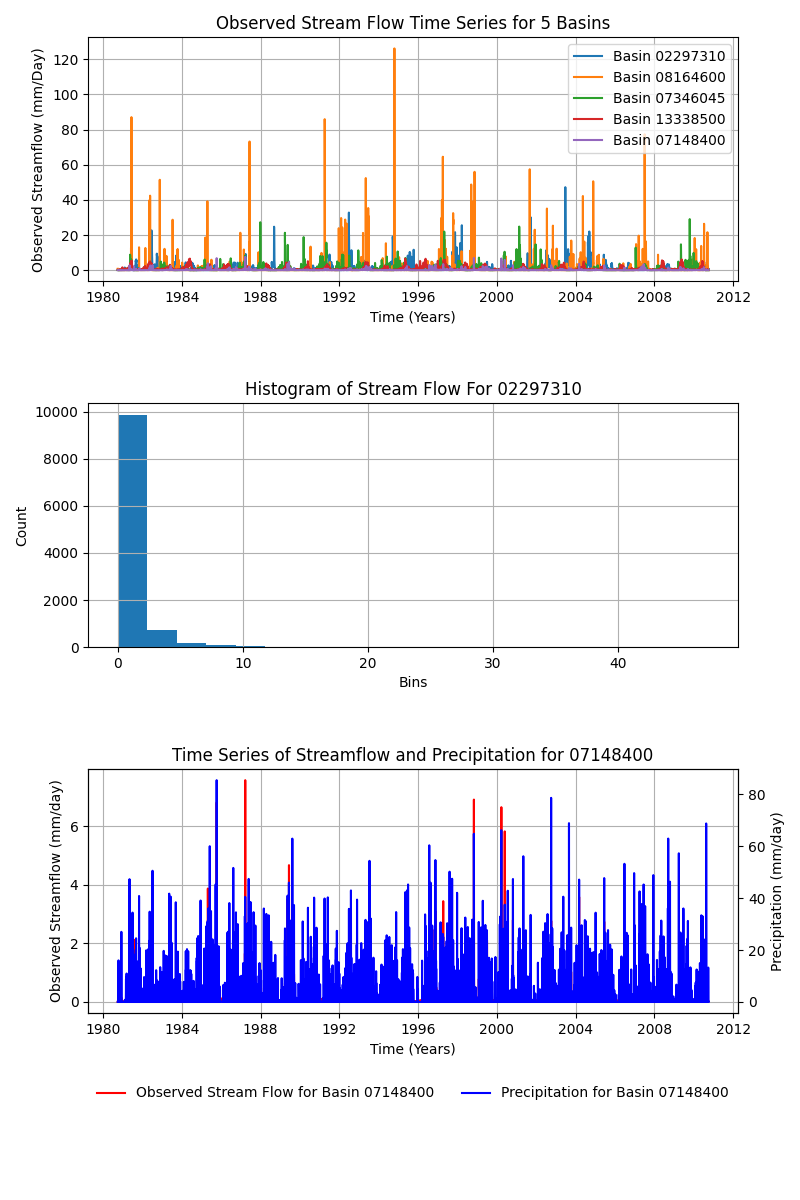
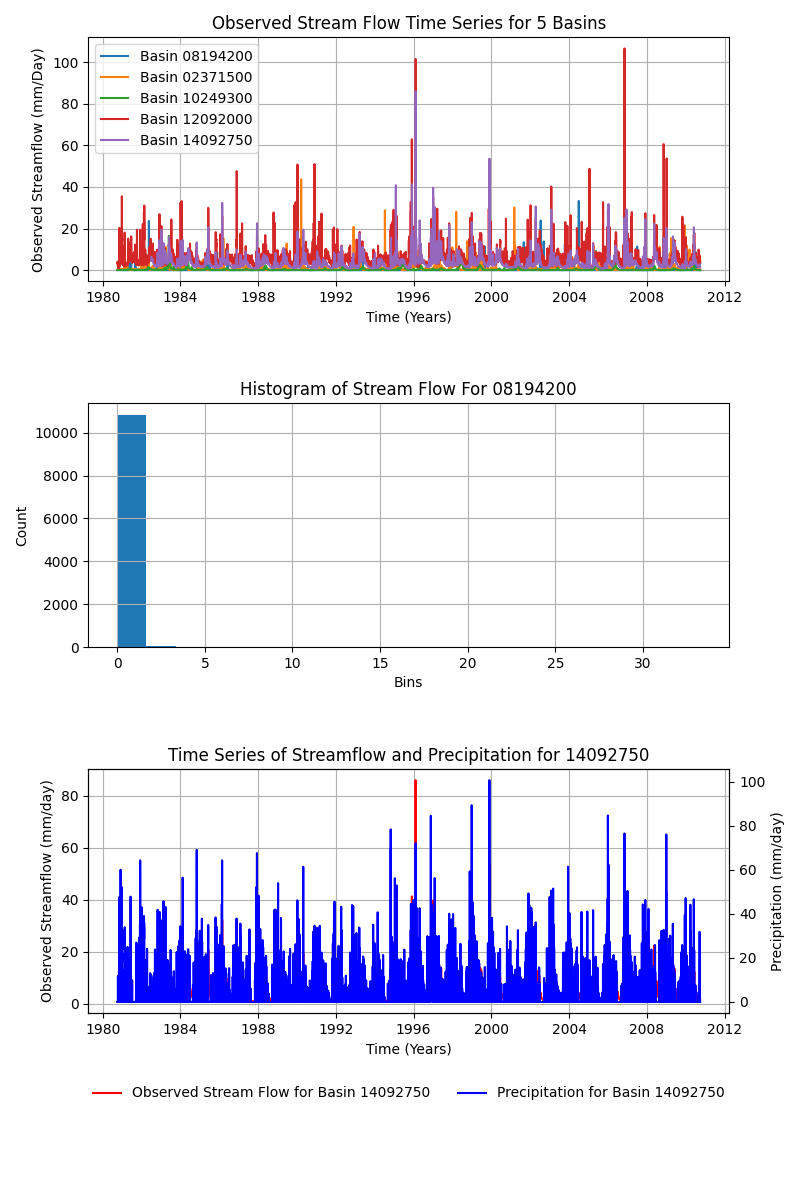
Added Config saving.

diff --git a/source/train.py b/source/train.py
@@ -89,16 +89,29 @@ def run_single_epoch(model, loader, criterion, optimizer=None, device='cpu'):
     return epoch_loss, epoch_nse
 
 
-def save_check(model, optimizer, epoch, train_loss, val_loss, path):
+def save_check(model, optimizer, epoch, train_loss, val_loss, path, config):
     checkpoint = {
         "epoch": epoch,
         "model_state_dict": model.state_dict(),
         "optimizer_state_dict": optimizer.state_dict(),
         "train_loss": train_loss,
         "val_loss": val_loss,
+        "config": config,
     }
 
     torch.save(checkpoint, path)
+
+
+def load_previous_best_val_loss(best_model_path):
+    if not best_model_path.exists():
+        return float("inf")
+
+    checkpoint = torch.load(best_model_path, map_location="cpu")
+
+    if "val_loss" in checkpoint:
+        return checkpoint["val_loss"]
+
+    return float("inf")
 
 
 def train_model(file_path,
@@ -155,6 +168,7 @@ def train_model(file_path,
         "val_loss": [],
         "train_nse": [],
         "val_nse": [],
+        "config": ""
     }
 
     best_val_loss = float("inf")
@@ -185,6 +199,10 @@ def train_model(file_path,
 
     for epoch in range(1, epochs + 1):
         # Training component
+
+        best_val_loss = load_previous_best_val_loss(best_model_path)
+        click.echo(f"Previous best validation loss: {best_val_loss:.6f}")
+
         click.echo(f"Starting Epoch {epoch}")
         train_loss, train_nse = run_single_epoch(
             model=lstm_model,
@@ -211,15 +229,38 @@ def train_model(file_path,
         # Report the loss values while looping
 
         click.echo(f"Epoch: {epoch}/{epochs} | Train MSE: {train_loss} | Val MSE: {val_loss}")
+        config = {
+            "file_path": str(file_path),
+            "output_dir": str(output_dir),
+            "seq_len": seq_len,
+            "horizon": horizon,
+            "batch_size": batch_size,
+            "learning_rate": learning_rate,
+            "epochs": epochs,
+            "hidden_size": hidden_size,
+            "num_layers": num_layers,
+            "dropout": dropout,
+            "target_var": target_var,
+            "input_vars": input_vars,
+            "seed": seed,
+            "checkpoint_name": checkpoint_name,
+            "nse_interval": nse_interval,
+        }
+        history["config"] = config
+
         if (epoch % nse_interval) == 0 or (epoch == epochs):
             click.echo(f"Train NSE: {train_nse} | Val NSE: {val_nse}")
         click.echo("-" * 20)
         # Best model checkpointing
         if val_loss < best_val_loss:
             best_val_loss = val_loss
-            save_check(lstm_model, optimizer, epoch, train_loss, val_loss, best_model_path)
+            save_check(lstm_model, optimizer, epoch, train_loss, val_loss, best_model_path, config)
             click.echo("-" * 20)
             click.echo(f"Saved new best model to: {best_model_path}")
+        else:
+            click.echo("Current model did not improve over saved best model.")
+            run_checkpoint_path = output_dir / f"run_seq{seq_len}_hidden{hidden_size}_layers{num_layers}_lr{learning_rate}.pt"
+            save_check(lstm_model, optimizer, epoch, train_loss, val_loss, run_checkpoint_path, config)
 
 
         # Last check point saving

diff --git a/source/main.py b/source/main.py
@@ -1,5 +1,5 @@
 from pathlib import Path
-import click
+import click, shutil
 
 # Commands from source files
 import data, model, train, validation, plotting, utils640
@@ -20,6 +20,13 @@ def CLI() -> None:
               default=DEFAULT_DATA_DIR, help="File path to the MiniCamels data file. Defaults to provided data folder.", show_default=True)
 def summarize_data(structure: bool, file_path: str) -> None:
     click.echo("-" * 20)
+    if file_path != DEFAULT_DATA_DIR:
+        click.echo(f"You have selected a separate MiniCamels data file location at {file_path}")
+        click.echo("If you encounter issues leave this field blank and the CLI will use the default data provided with this CLI.")
+        click.echo("The default data contained in this CLI is the same MiniCamels data files as of: 04/24/2026")
+        click.echo("-"*20)
+
+
     if structure:
         utils640.data_structure(file_path)
     else:
@@ -145,10 +152,9 @@ def evaluate(
 
 
 @CLI.command("plot", help="Plot a given file, if none given plot best LSTM results")
-@click.option("--file-name", default="best_LSTM.pt", show_default=True, help="File name of the model to plot, from outputs folder")
 @click.option("--explore", is_flag=True, help="Flag to display the exploration plots")
 @click.option("--history-plot", is_flag=True, help="Flag to display a training history plot, or just the latest training run plots.")
-def plot(file_name: str, explore:bool, history_plot:bool) -> None:
+def plot(explore:bool, history_plot:bool) -> None:
     click.echo("-"*20)
     if explore:
         typ = click.prompt("Number of Stream Flow Time Series Plots To Make", default = 5, show_default=True)
@@ -163,9 +169,6 @@ def plot(file_name: str, explore:bool, history_plot:bool) -> None:
         sv = click.prompt("History File Name to Plot, leave blank for default", default="training_history.json", show_default=True)
         histpath = DEFAULT_OUTPUT_DIR / "training_results" / sv
         plotting.run_saved_plots(histpath)
-    else:
-        click.echo("-"*20)
-        click.echo(f"Plotting {file_name}...")
 
     click.echo("-"*20)
     return

diff --git a/source/data.py b/source/data.py
@@ -295,7 +295,10 @@ def make_dataloaders(train_ds, val_ds,test_ds, input_vars=None, target_var="qobs
 
 
 def load_basin_data(file_path):
-    dt = mc.MiniCamels(file_path)
+    if file_path is None:
+        dt = mc.MiniCamels()
+    else:
+        dt = mc.MiniCamels(file_path)
 
     basin_indexes = dt.basins()
 

diff --git a/README.md b/README.md
@@ -1,2 +1,94 @@
-# HWRS640_HW4
-New repo to implement a LSTM-based hydrologic streamflow model.
+# HWRS640_HW4 Created By: Roz Roberts IV
+The HWRS640_HW4 Repo implements an LSTM model on observed streamflow from the CAMELS database by using MiniCamels.
+
+The LSTM model is implemented through the Python library CLICK as a CLI interface system.
+
+The different flags for this CLI are listed bellow and what they do, as well as an example snippet showcasing how
+to use this library.
+
+The CLI is commanded from main.py, to run this code in terminal use the following:
+```terminaloutput
+python source/main.py 
+```
+
+To see how each command is used just pass the "help" flag:
+```terminaloutput
+python source/main.py --help
+```
+This will show the following:
+```
+Usage: main.py [OPTIONS] COMMAND [ARGS]...
+
+  Main Command Line Interface for HWRS640 HW 4
+
+Options:
+  --help  Show this message and exit.
+
+Commands:
+  evaluate        Evaluate the model
+  plot            Plot a given file, if none given plot best LSTM results
+  summarize-data  Summary of dataset
+  train           Train the LSTM model with given parameters
+```
+
+Although the commands are designed to be straight forward to understand, "help" flags like the 
+one above have been provided for every command. Some of the "help" information the flags 
+provide is listed bellow for convince of the user. If at any point you are confused about
+what a flag or option does just pass ```--help``` for a given command and read the output.
+
+---
+
+To start summarize-data gives a summary of the full dataset.
+This summary is given as a graphical and command line output.
+The graphical output is the default and is saved to the outputs folder and is called summary_plots.png
+The in-line results are gotten by passing the "structure" flag and give the full datasets structure. 
+
+```terminaloutput
+python source/main.py summarize-data
+```
+It should be noted that for this LSTM the static attributes are ignored. 
+
+---
+
+```terminaloutput
+python source\main.py plot
+```
+Provides many avenues to plot data from the LSTM. Passing the "explore" flag generates the 
+exploratory plots from Question 1 of this homework. The "history-plot" flag plots the last,
+or a specified training history.
+
+--- 
+
+```terminaloutput
+python source\main.py train
+python source\main.py evaluate
+```
+Are the two most curcial commands. The first one trains an LSTM model on the dataset with many
+parameters to customize. The "train" command also has a "just" flag which gives the traing/validation/testing
+dataset split justification as requested in Question 2 of the homework. All other CLI options are 
+for hyperparamter tuning and data tuning. 
+```terminaloutput
+python source\main.py train --just
+```
+
+The second command shown is "evaluate" this evaluates the trained model using the evaluation testing.
+This command **_requires_** that you as the user remember the hyperparameters used in "train" as unless
+you are using the **_default parameters_** you will need to specify them again. In addition, you will also need
+to specify where the checkpoint path (saved .pt file) is. See the example bellow to reproduce the "best LSTM"
+to see how this is done. 
+
+---
+
+To reproduce the best LSTM model that I was able to train use the following commands for training and evaluation:
+
+```terminaloutput
+source/main.py train --epochs 80 --nse-interval 1 --batch-size 64 --hidden-size 64 --num-layers 2 --seed 117
+
+python source/main.py evaluate --checkpoint-path outputs/training_results/best_lstm.pt --batch-size 64 --hidden-size 64 --num-layers 2 --seed 117      
+```
+
+---
+
+All of the above information is provided in the various "help" flags of the CLI, so it
+should be very simple to navigate and use. The total PDF writeup for this homework is provided under
+```outputs/writeup```.
